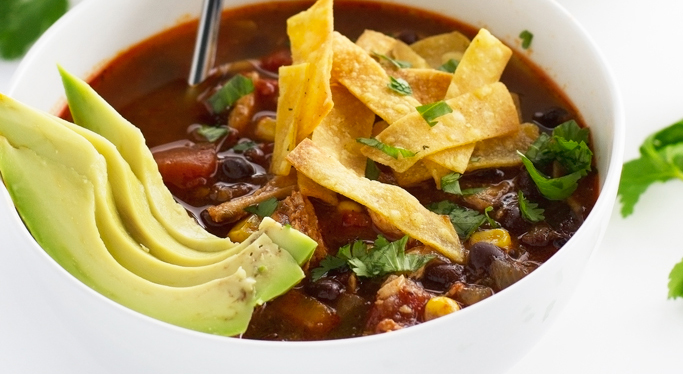
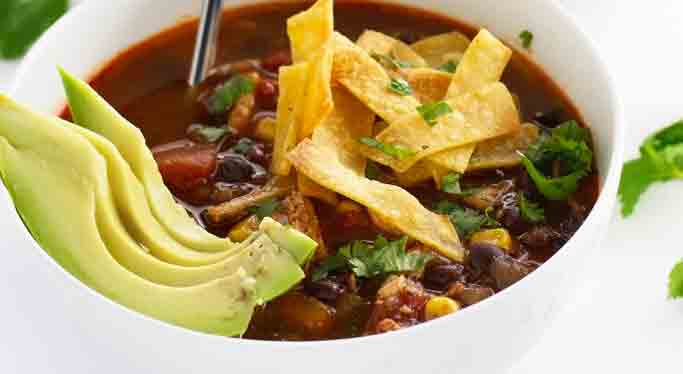
cmpressed images

diff --git a/index.html b/index.html
@@ -98,7 +98,7 @@ vegetable for only 50% off.</p>
 
      <p class="blacktext">In the mood for a great meal? Contact us below:</p>
 
-     <img src="images/mapa.png"  alt=".">
+     <img src="images/mapa.jpg"  alt=".">
 
 
 
